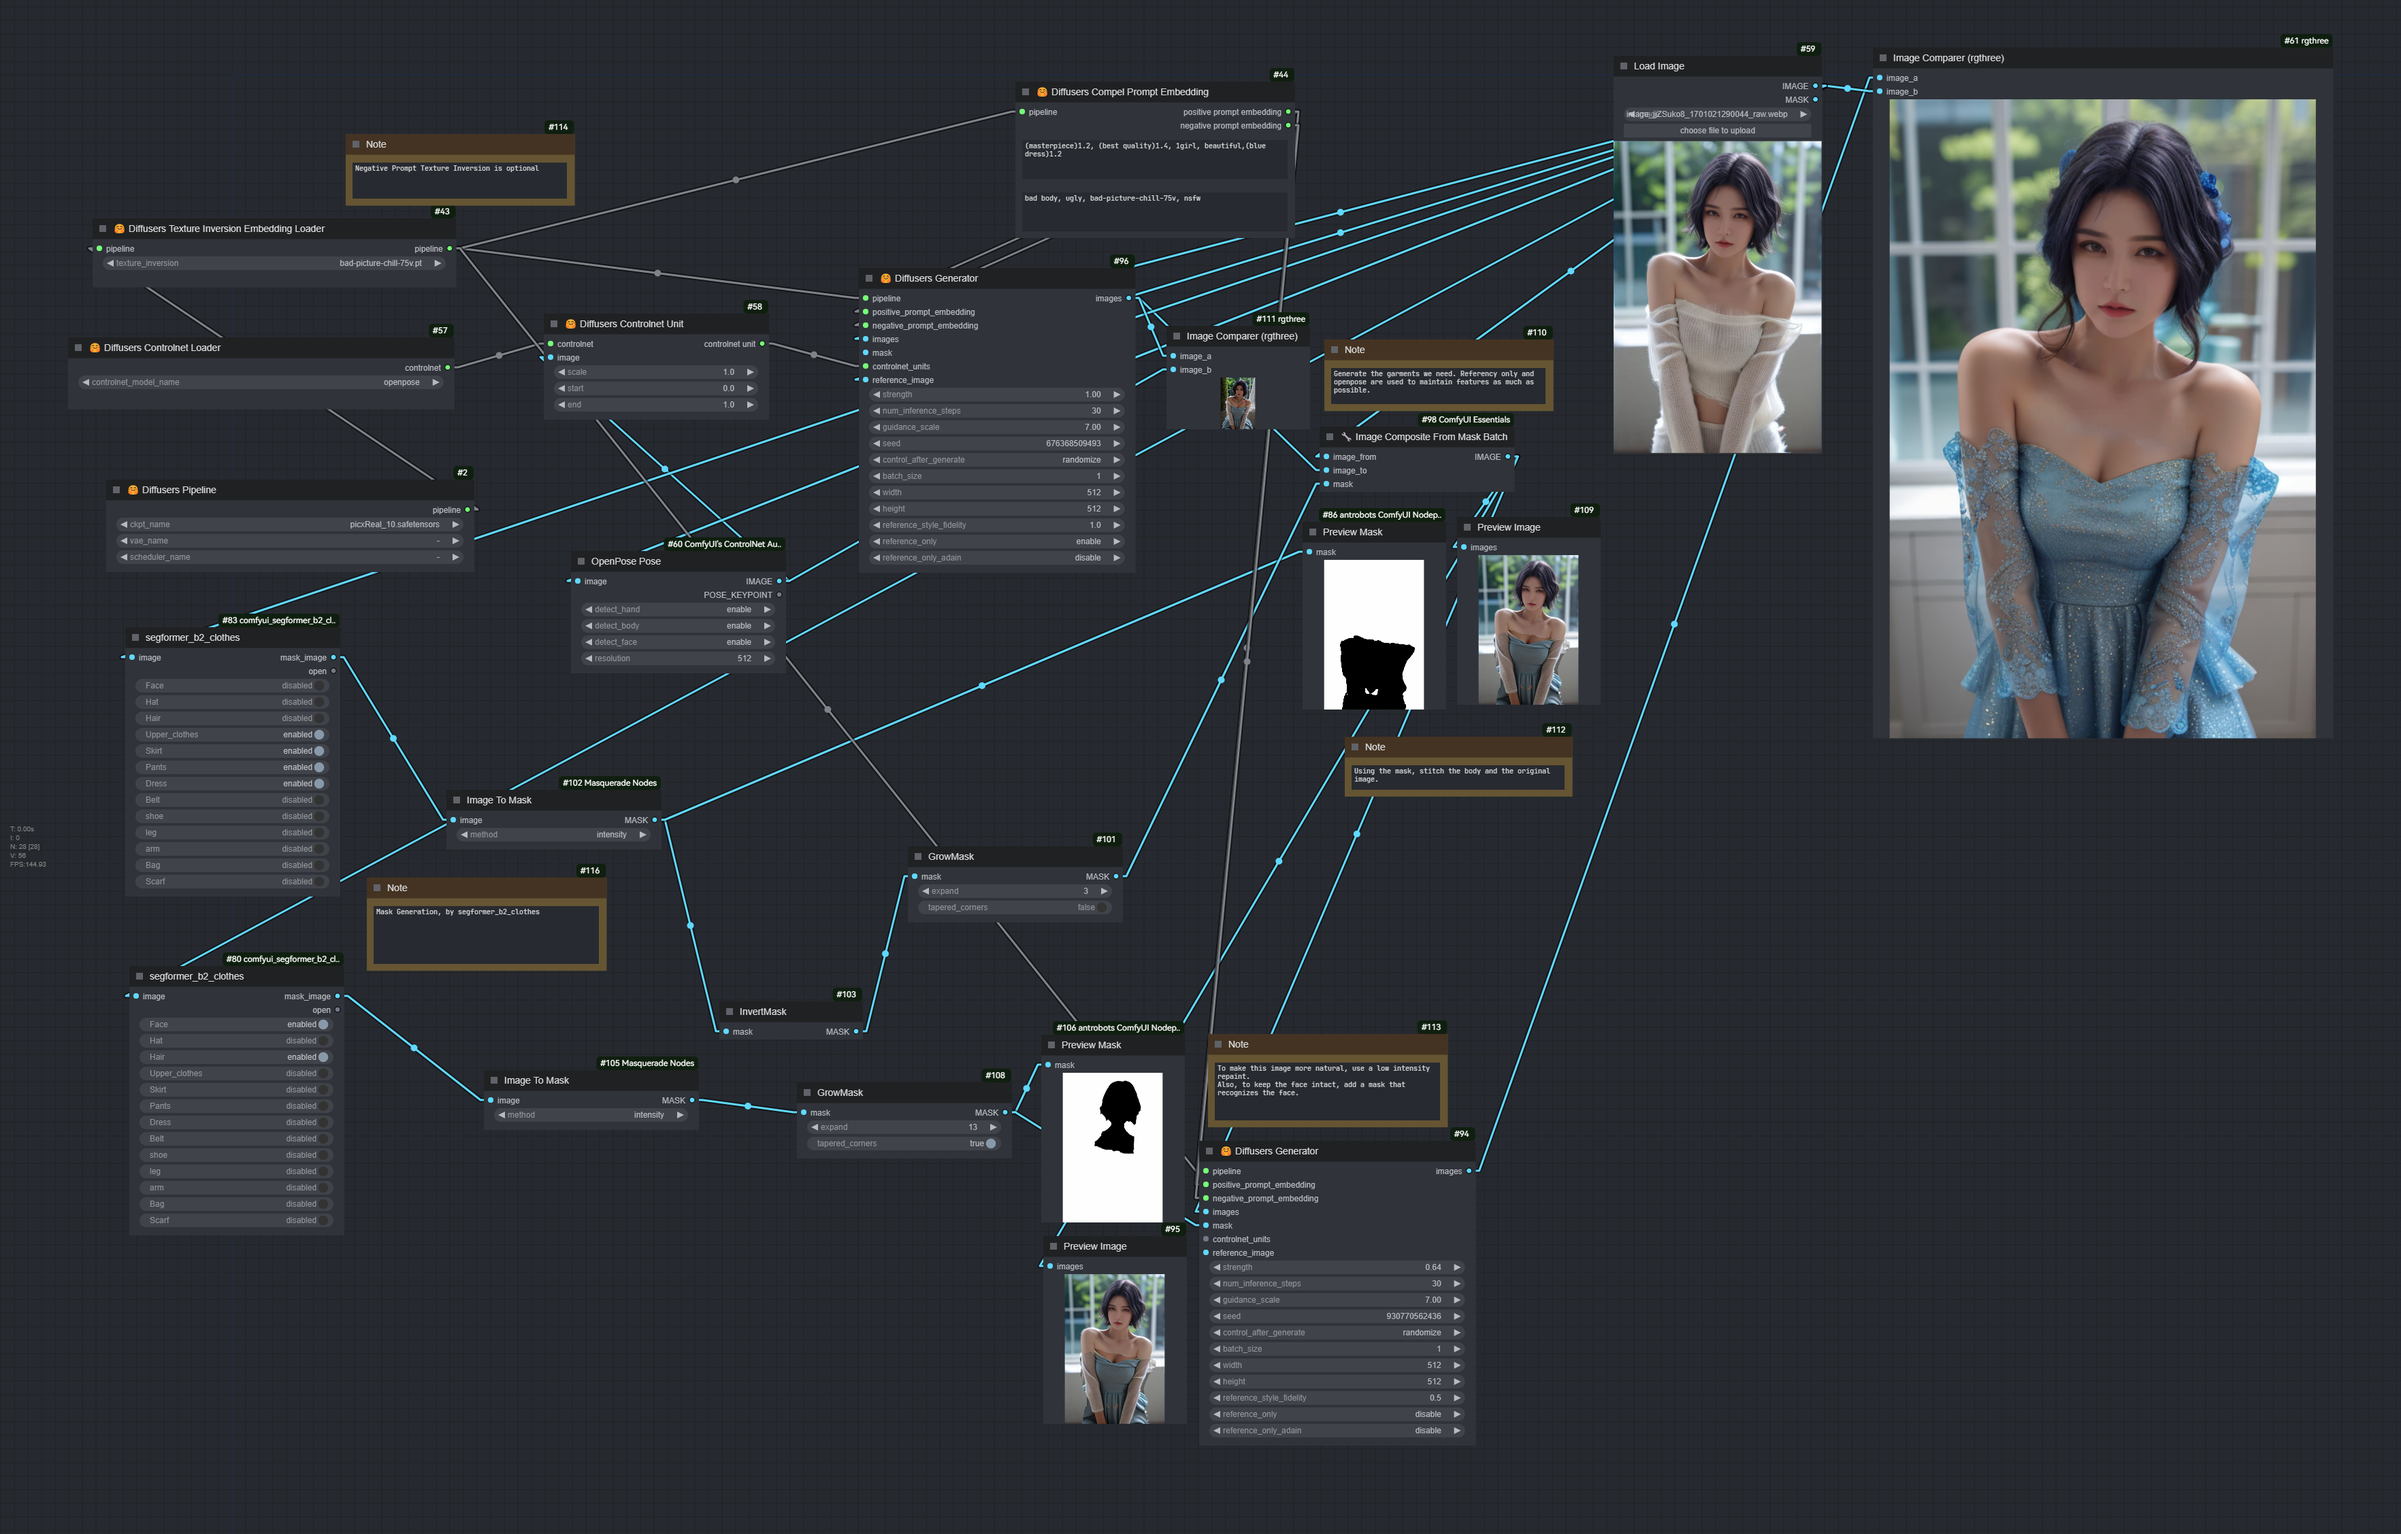
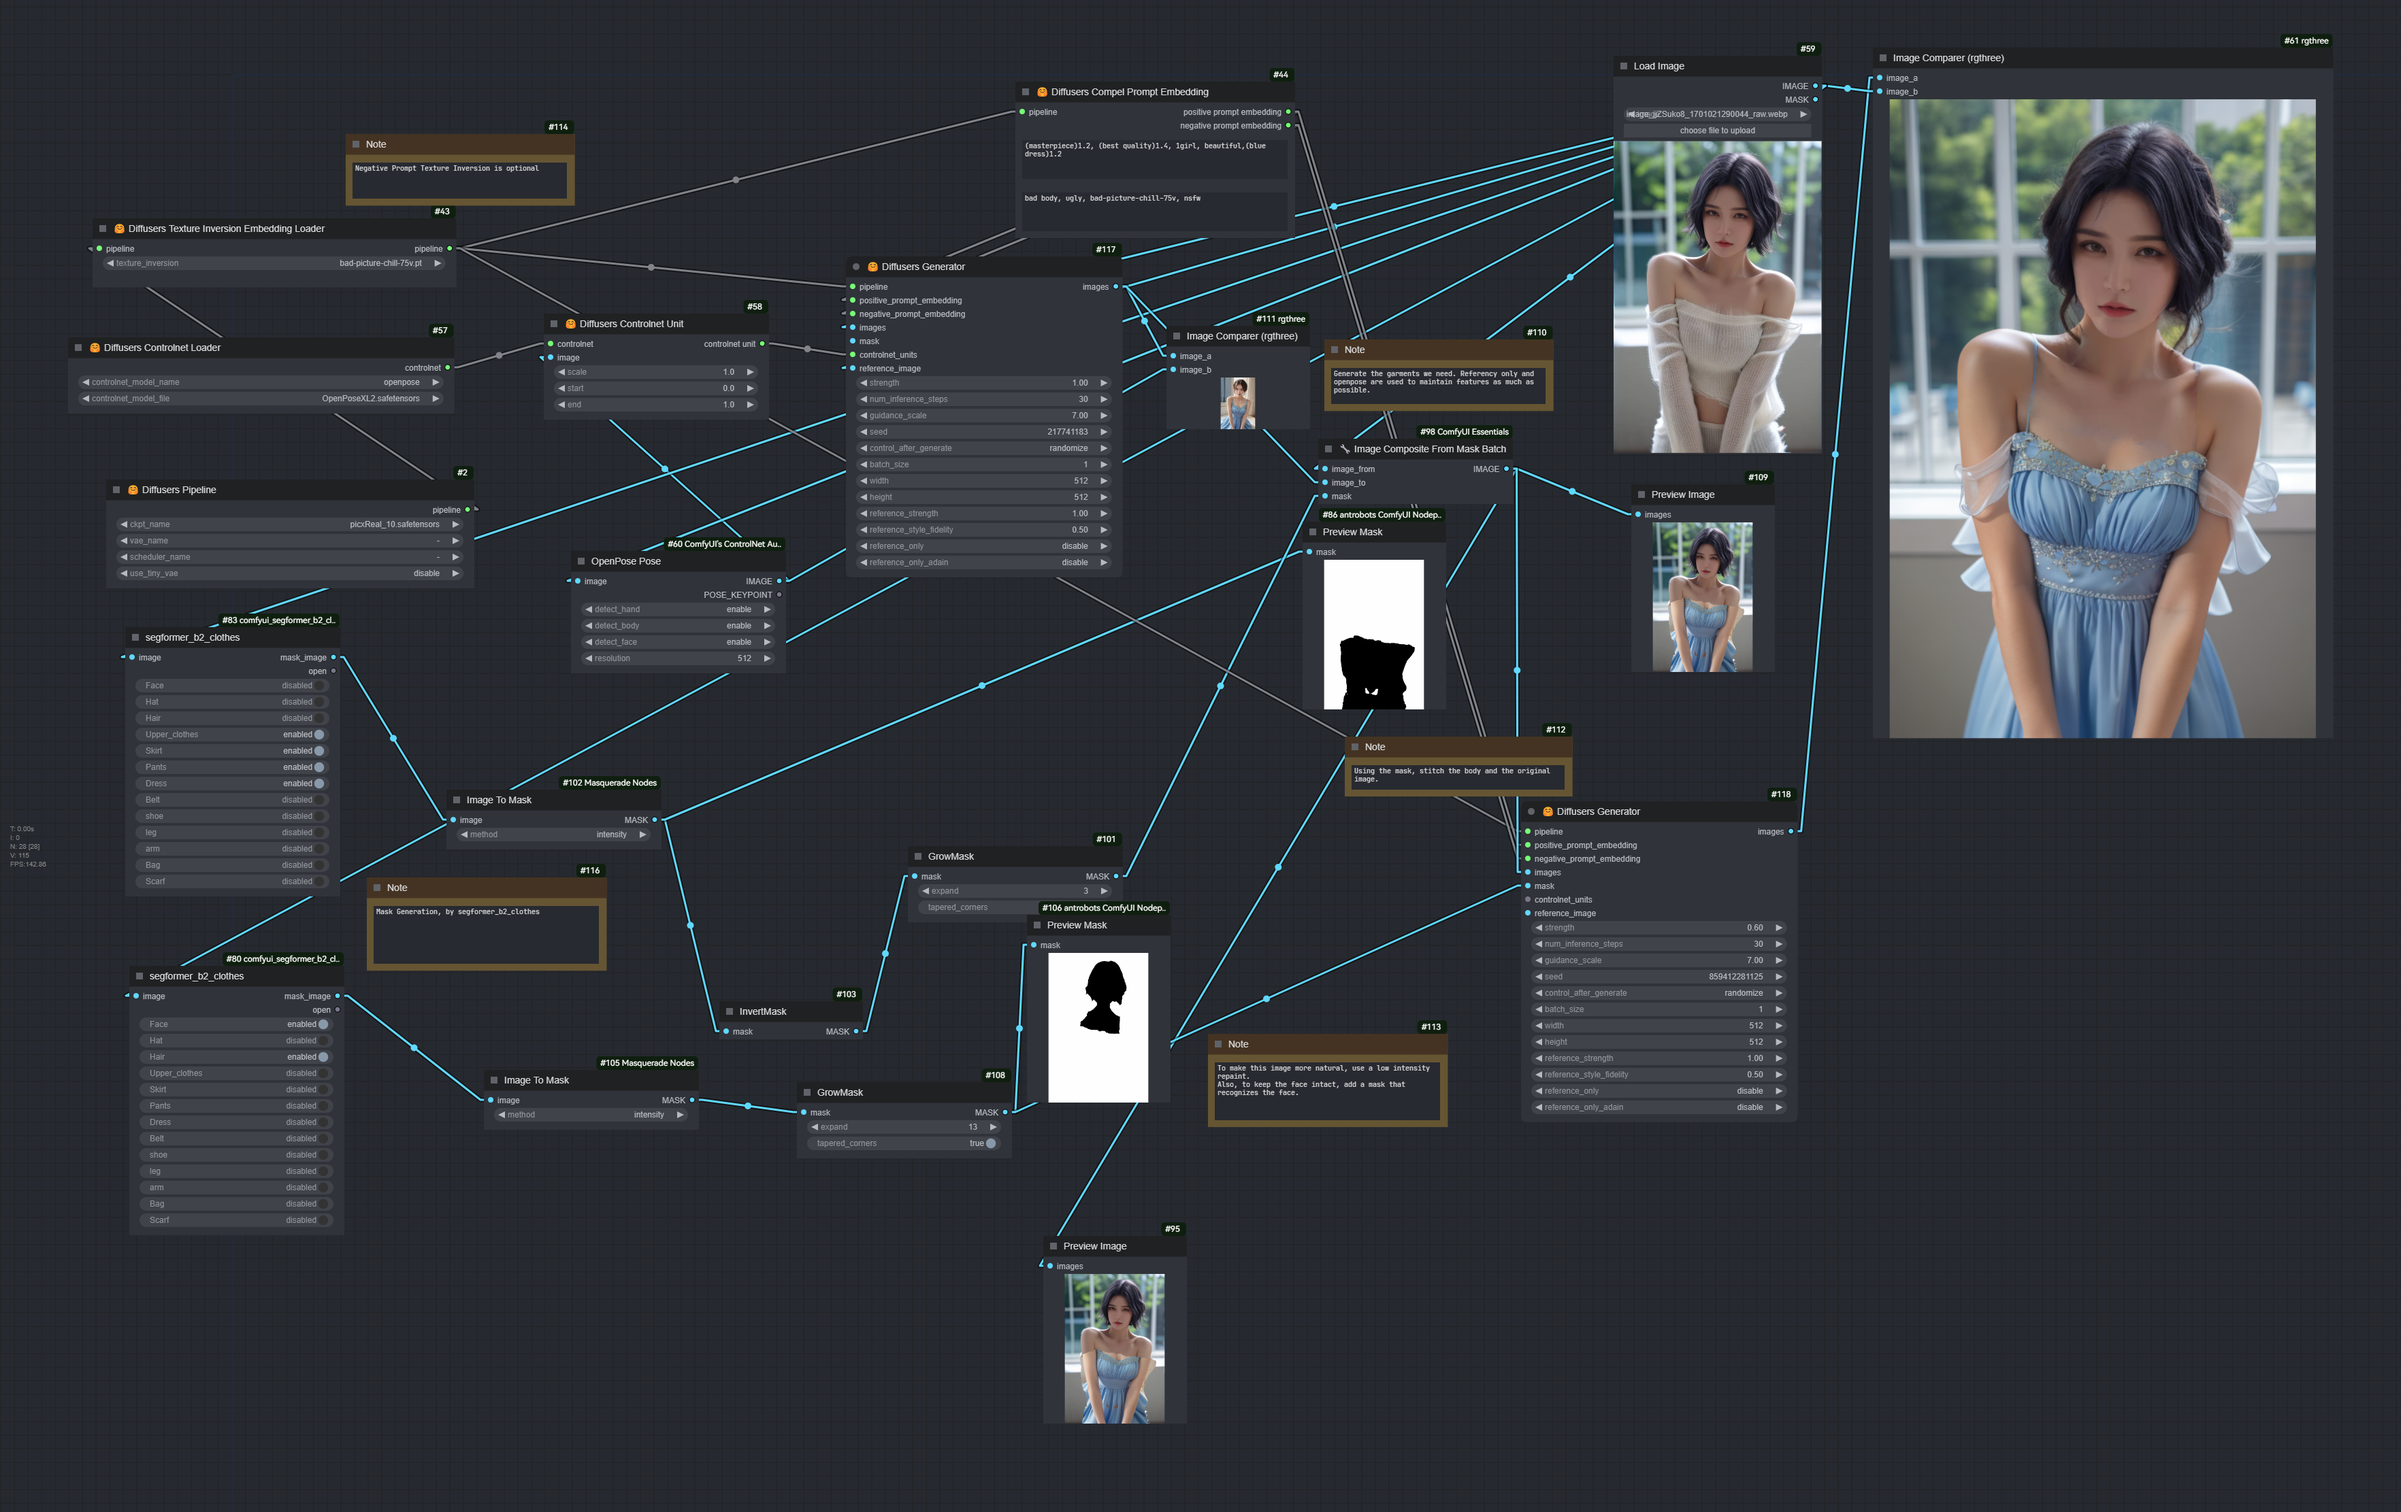
fix: enhance the compatibility between diffusers and comfy

diff --git a/__init__.py b/__init__.py
@@ -201,7 +201,7 @@ class GetFilledColorImage:
                         "default": 0.0,
                         "min": 0.0,
                         "max": 1.0,
-                        "step": 0.1,
+                        "step": 0.01,
                         "display": "number",
                     },
                 ),
@@ -211,7 +211,7 @@ class GetFilledColorImage:
                         "default": 0.0,
                         "min": 0.0,
                         "max": 1.0,
-                        "step": 0.1,
+                        "step": 0.01,
                         "display": "number",
                     },
                 ),
@@ -221,7 +221,7 @@ class GetFilledColorImage:
                         "default": 0.0,
                         "min": 0.0,
                         "max": 1.0,
-                        "step": 0.1,
+                        "step": 0.01,
                         "display": "number",
                     },
                 ),
@@ -513,7 +513,7 @@ class DiffusersPrepareLatents:
             batch_size=batch_size,
             height=height,
             width=width,
-            dtype=comfy.model_management.VAE_DTYPE,
+            dtype=comfy.model_management.vae_dtype(),
             device=device,
             generator=generator,
             latents=latents,
@@ -688,8 +688,8 @@ class DiffusersControlNetUnitStack:
     def run(
         self,
         controlnet_unit_1: tuple[ControlNetModel],
-        controlnet_unit_2: tuple[ControlNetModel] | None,
-        controlnet_unit_3: tuple[ControlNetModel] | None,
+        controlnet_unit_2: tuple[ControlNetModel] | None = None,
+        controlnet_unit_3: tuple[ControlNetModel] | None = None,
     ):
         stack = []
         if controlnet_unit_1:
@@ -749,13 +749,22 @@ class DiffusersGenerator:
                         "step": 64,
                     },
                 ),
+                "reference_strength": (
+                    "FLOAT",
+                    {
+                        "default": 1.0,
+                        "min": 0.0,
+                        "max": 1.0,
+                        "step": 0.01,
+                    },
+                ),
                 "reference_style_fidelity": (
                     "FLOAT",
                     {
                         "default": 0.5,
                         "min": 0.0,
                         "max": 1.0,
-                        "step": 0.1,
+                        "step": 0.01,
                     },
                 ),
             },
@@ -801,6 +810,7 @@ class DiffusersGenerator:
         reference_only_adain: str = "disable",
         reference_image: torch.Tensor | None = None,
         reference_style_fidelity: float = 0.5,
+        reference_strength: float = 1.0,
     ):
         reference_only = reference_only == "enable"
         reference_only_adain = reference_only_adain == "enable"
@@ -820,7 +830,7 @@ class DiffusersGenerator:
                 width=width,
                 generator=generator,
                 device=device,
-                dtype=comfy.model_management.VAE_DTYPE,
+                dtype=comfy.model_management.vae_dtype(),
             )
             images = latents_to_img_tensor(pipeline, latents)
         else:
@@ -856,6 +866,7 @@ class DiffusersGenerator:
             strength=strength,
             controlnet_units=controlnet_units,
             callback=callback,
+            reference_strength=reference_strength,
             reference_attn=reference_only,
             reference_adain=reference_only_adain,
             style_fidelity=reference_style_fidelity,

diff --git a/pipelines/jannchie.py b/pipelines/jannchie.py
@@ -227,6 +227,7 @@ class JannchiePipeline(StableDiffusionControlNetPipeline):
         masked_image_latents: Optional[torch.FloatTensor] = None,
         ip_adapter_image: Optional[PipelineImageInput] = None,
         ip_adapter_image_embeds: Optional[List[torch.FloatTensor]] = None,
+        reference_strength: float = 1.0,
         *arg,
         **args,
     ):
@@ -515,6 +516,7 @@ class JannchiePipeline(StableDiffusionControlNetPipeline):
             gn_auto_machine_weight=gn_auto_machine_weight,
             ref_mask_dict=ref_mask_dict,
             out_mask_dict=out_mask_dict,
+            strength=reference_strength,
         )
         if reference_attn:
             self.unet = ReferenceOnlyUNet2DConditionModel.from_unet(
@@ -1132,6 +1134,7 @@ class ReferenceData:
     gn_auto_machine_weight: float = 1.0
     ref_mask_dict: dict = None
     out_mask_dict: dict = None
+    strength: float = 1.0
 
 
 class ReferenceOnlyUNet2DConditionModel(UNet2DConditionModel):
@@ -1310,6 +1313,7 @@ class BasicTransformerBlockReferenceOnly(BasicTransformerBlock):
                     style_fidelity * attn_output_c
                     + (1.0 - style_fidelity) * attn_output_uc
                 )
+                attn_output *= ref_data.strength
                 bank.clear()
             else:
                 # without reference only
@@ -1436,6 +1440,7 @@ class CrossAttnDownBlock2DReferenceOnly(CrossAttnDownBlock2D):
                     style_fidelity * hidden_states_c
                     + (1.0 - style_fidelity) * hidden_states_uc
                 )
+                hidden_states *= self.ref_data.strength
             # apply additional residuals to the output of the last pair of resnet and attention blocks
             if i == len(blocks) - 1 and additional_residuals is not None:
                 hidden_states = hidden_states + additional_residuals
@@ -1501,6 +1506,7 @@ class DownBlock2DReferenceOnly(DownBlock2D):
                     style_fidelity * hidden_states_c
                     + (1.0 - style_fidelity) * hidden_states_uc
                 )
+                hidden_states *= self.ref_data.strength
 
             output_states = output_states + (hidden_states,)
 
@@ -1566,6 +1572,7 @@ class UNetMidBlock2DCrossAttnReferenceOnly(UNetMidBlock2DCrossAttn):
                 if do_classifier_free_guidance and style_fidelity > 0:
                     x_c[uc_mask] = x[uc_mask]
                 x = style_fidelity * x_c + (1.0 - style_fidelity) * x_uc
+                x *= self.ref_data.strength
             self.mean_bank = []
             self.var_bank = []
         return x
@@ -1623,6 +1630,7 @@ class UpBlock2DReferenceOnly(UpBlock2D):
                     style_fidelity * hidden_states_c
                     + (1.0 - style_fidelity) * hidden_states_uc
                 )
+                hidden_states *= self.ref_data.strength
 
         if MODE == "read":
             self.mean_bank = []
@@ -1699,6 +1707,7 @@ class CrossAttnUpBlock2DReferenceOnly(CrossAttnUpBlock2D):
                     style_fidelity * hidden_states_c
                     + (1.0 - style_fidelity) * hidden_states_uc
                 )
+                hidden_states *= self.ref_data.strength
 
         if MODE == "read":
             self.mean_bank = []

diff --git a/pipelines/__init__.py b/pipelines/__init__.py
@@ -59,14 +59,14 @@ class PipelineWrapper:
             self.pipeline = JannchiePipeline.from_single_file(
                 ckpt_path,
                 torch_dtype=unet_dtype,
-                cache_dir=folder_paths.get_folder_paths("diffusers"),
+                cache_dir=folder_paths.get_folder_paths("diffusers")[0],
                 use_safetensors=True,
             )
         else:
             self.pipeline = JannchiePipeline.from_pretrained(
                 ckpt_path,
                 torch_dtype=unet_dtype,
-                cache_dir=folder_paths.get_folder_paths("diffusers"),
+                cache_dir=folder_paths.get_folder_paths("diffusers")[0],
                 use_safetensors=ckpt_path.endswith(".safetensors"),
             )
 
